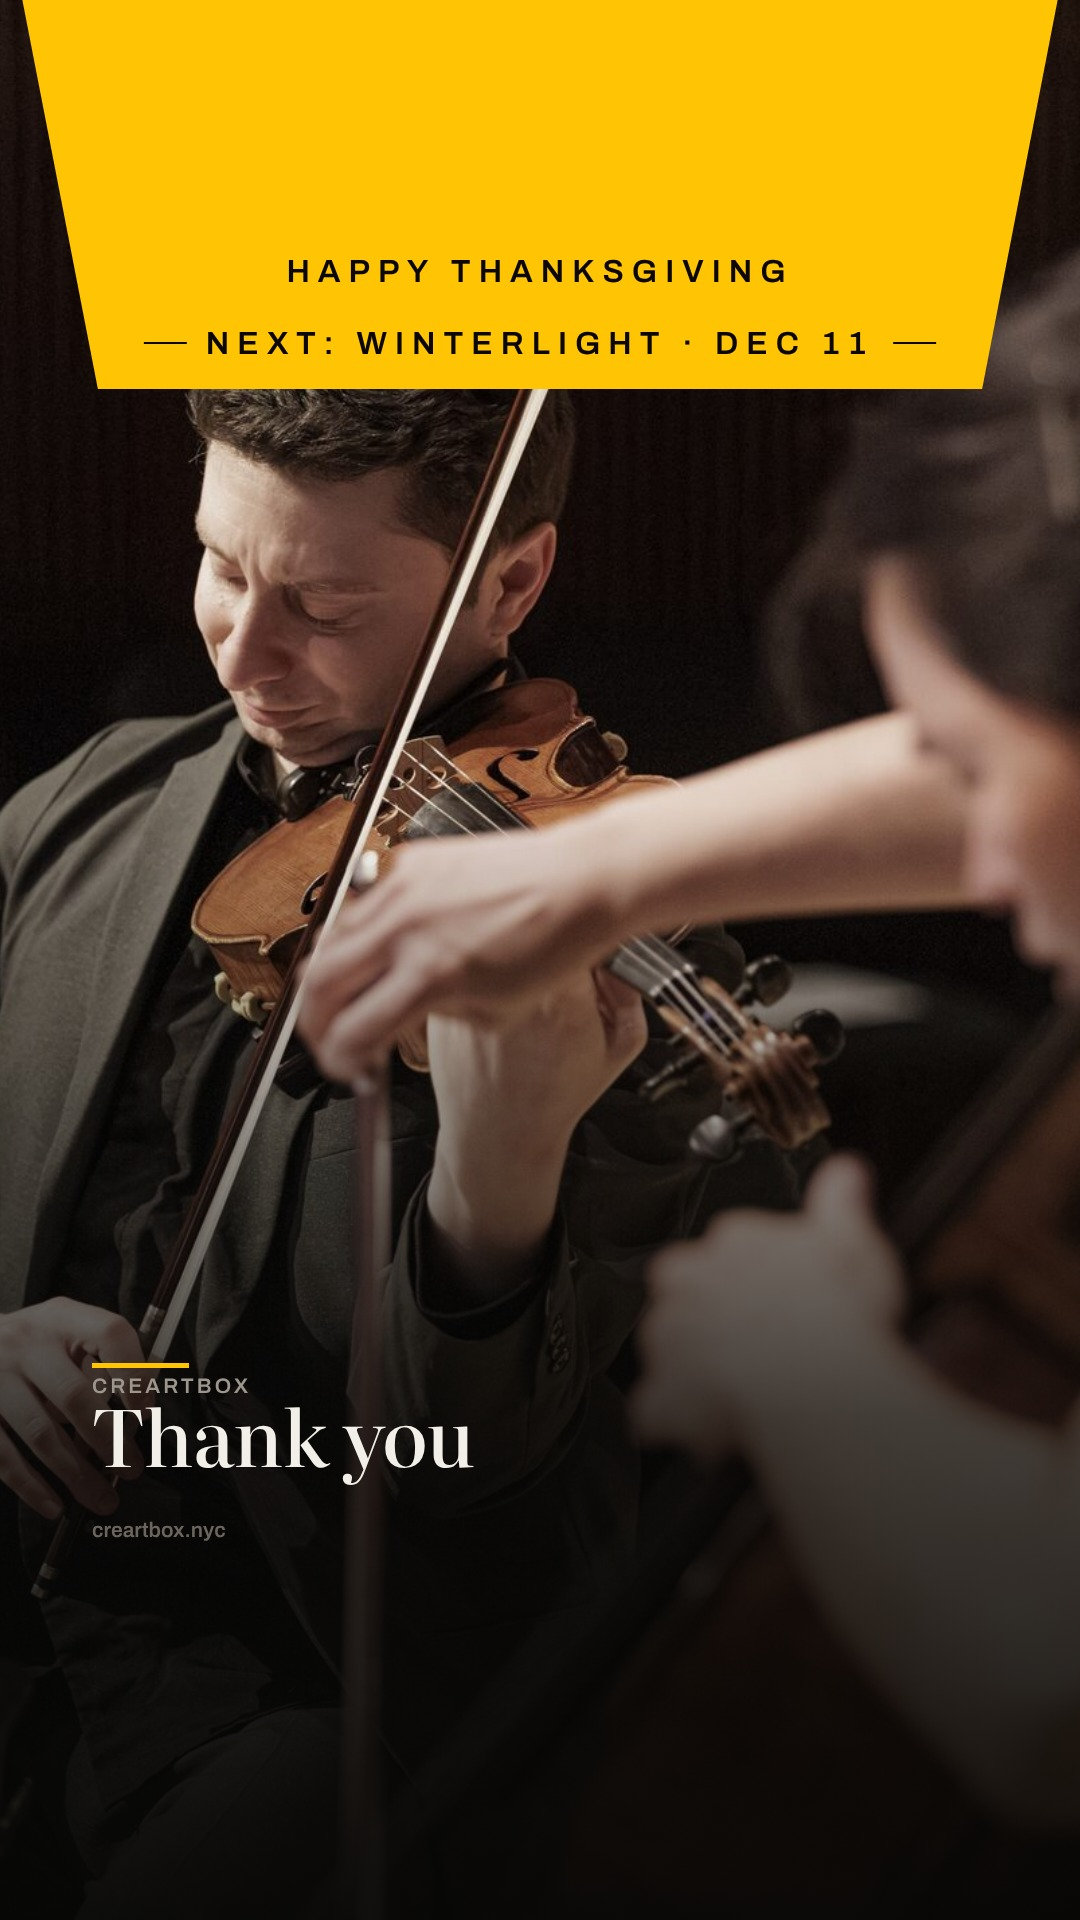
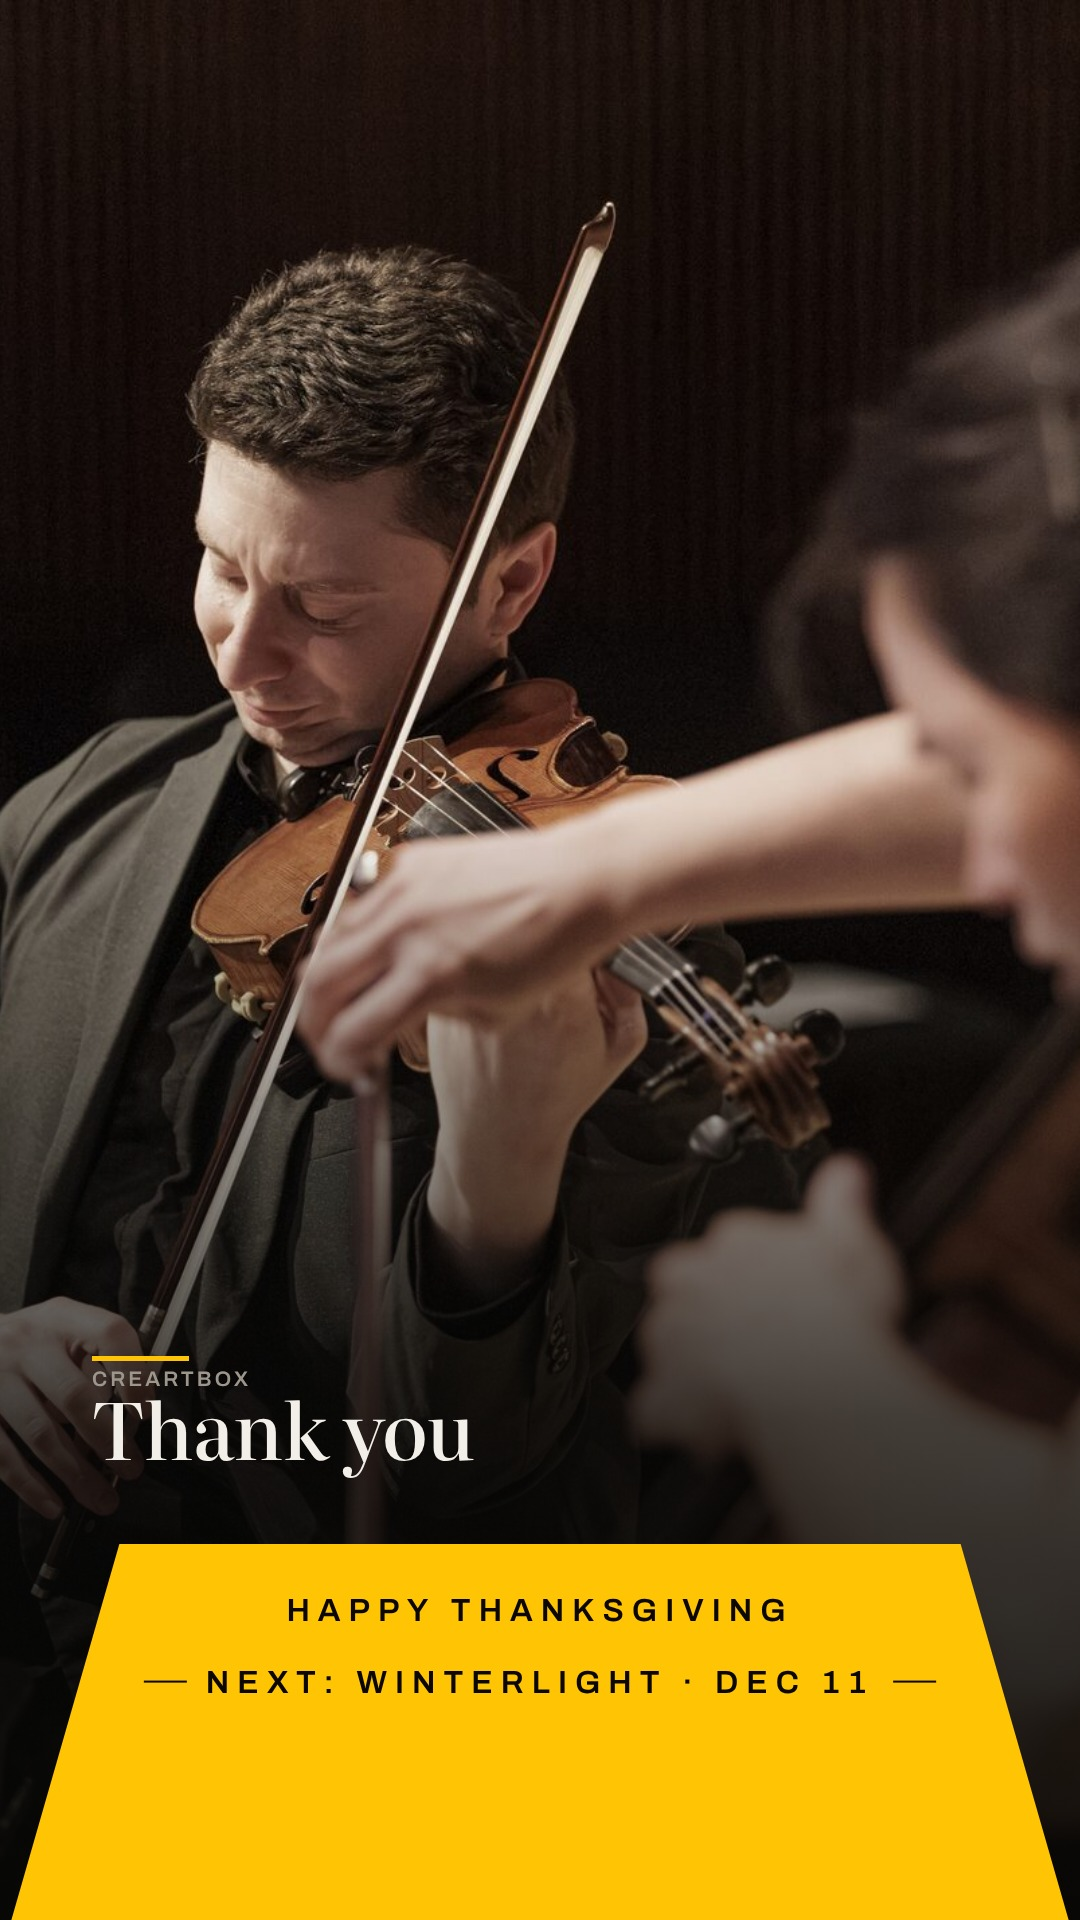
CreArtBox: sobre foto, el trapecio va abajo (sangra como en el cuadernillo) y el titular encima; arriba tapaba las cabezas. Historias en cola redibujadas
Claude-Session: https://claude.ai/code/session_0135dvaV41U2wFKvXfjD2MLS

diff --git a/motor.js b/motor.js
@@ -328,11 +328,51 @@ export function crearMotor(B) {
     // CreArtBox's signature (B.firma = 'trapecio'): the sticker lines go centered and
     // straight inside an amber trapezoid, like the cover of its printed program.
     // From the top edge it bleeds and opens upwards; lower down it floats.
+    // Over a photo the trapezoid goes at the bottom, bleeding off the edge
+    // like the program cover: at the top it covered the heads (Nov 26).
+    // The text ends above Instagram's reply bar. Returns where it starts.
+    function trapecioAbajoTop() {
+      const n = Math.min(3, (post.pegatinas || []).length);
+      const cuerpo = Math.round(W * 0.03), paso = Math.round(cuerpo * 2.25);
+      const limite = fmt === 'story' ? Math.round(H * 0.885) : H - Math.round(pad * 0.75);
+      return limite - cuerpo - (n - 1) * paso - Math.round(cuerpo * 1.6);
+    }
+    const trapecioAbajo = () => B.firma === 'trapecio' && estilo !== 'ambar' && (post.pegatinas || []).length
+      && (fmt === 'story' || (post.pegatinasMuro && fmt === 'ig' && idx === 0));
+
     function pegatinasTrapecio(yInicio) {
       const lineas = post.pegatinas.slice(0, 3).map((peg) => ({ texto: String(peg.texto || peg).toUpperCase(), senal: peg.senal === true }));
       const cuerpo = Math.round(W * 0.03);
       const paso = Math.round(cuerpo * 2.25);
       const esp = Math.round(cuerpo * 0.24);
+      if (yInicio == null && trapecioAbajo()) {
+        rotulo(ctx, cuerpo, B.onAccent || B.ink, esp);
+        const ancho = Math.max(...lineas.map((l) => ctx.measureText(l.texto).width));
+        sinEspaciado(ctx);
+        const y0 = trapecioAbajoTop(), cx = W / 2;
+        const arriba = Math.min(W - pad, ancho + Math.round(W * 0.16));
+        const abajo = Math.min(W, arriba + Math.round(W * 0.2));
+        ctx.beginPath();
+        ctx.moveTo(cx - arriba / 2, y0); ctx.lineTo(cx + arriba / 2, y0);
+        ctx.lineTo(cx + abajo / 2, H); ctx.lineTo(cx - abajo / 2, H);
+        ctx.closePath(); ctx.fillStyle = B.accent; ctx.fill();
+        const tinta = B.onAccent || B.ink;
+        ctx.textAlign = 'center';
+        lineas.forEach((l, i) => {
+          const y = y0 + Math.round(cuerpo * 1.6) + cuerpo * 0.8 + i * paso;
+          rotulo(ctx, cuerpo, tinta, esp);
+          ctx.fillText(l.texto, cx, y);
+          if (l.senal) {
+            const w2 = ctx.measureText(l.texto).width;
+            const raya = Math.round(W * 0.04), hueco = Math.round(W * 0.018);
+            ctx.fillRect(cx - w2 / 2 - hueco - raya, y - Math.round(cuerpo * 0.36), raya, 2);
+            ctx.fillRect(cx + w2 / 2 + hueco, y - Math.round(cuerpo * 0.36), raya, 2);
+          }
+          sinEspaciado(ctx);
+        });
+        ctx.textAlign = 'left';
+        return y0;
+      }
       rotulo(ctx, cuerpo, B.onAccent || B.ink, esp);
       const ancho = Math.max(...lineas.map((l) => ctx.measureText(l.texto).width));
       sinEspaciado(ctx);
@@ -924,7 +964,9 @@ export function crearMotor(B) {
       const maxTitleH = H * (fmt === 'story' ? 0.30 : 0.34);
       const fit = encajar(ctx, slide.title, W - pad * 2 - safeRight, maxTitleH, TW, DISPLAY, Math.round(W * 0.072), Math.round(W * 0.034), PLOMO);
       const lineH = Math.round(fit.size * PLOMO);
-      const baseY = H - pad - safeBottom;
+      // With CreArtBox's trapezoid at the bottom, the title sits just above it.
+      const conTrapecio = trapecioAbajo();
+      const baseY = conTrapecio ? trapecioAbajoTop() - Math.round(pad * 0.75) : H - pad - safeBottom;
       const startY = baseY - fit.lines.length * lineH + lineH * 0.8;
 
       ctx.fillStyle = B.accent;
@@ -938,9 +980,11 @@ export function crearMotor(B) {
       ctx.fillStyle = B.overPhotoInk;
       fit.lines.forEach((l, i) => ctx.fillText(l, pad, startY + i * lineH));
 
-      rotulo(ctx, rotSize, TINTA_MUDA, 0);
-      ctx.fillText(SITIO, pad, H - Math.round(pad * 0.4) - safeBottom);
-      sinEspaciado(ctx);
+      if (!conTrapecio) {
+        rotulo(ctx, rotSize, TINTA_MUDA, 0);
+        ctx.fillText(SITIO, pad, H - Math.round(pad * 0.4) - safeBottom);
+        sinEspaciado(ctx);
+      }
       pegatinas();
       return;
     }
